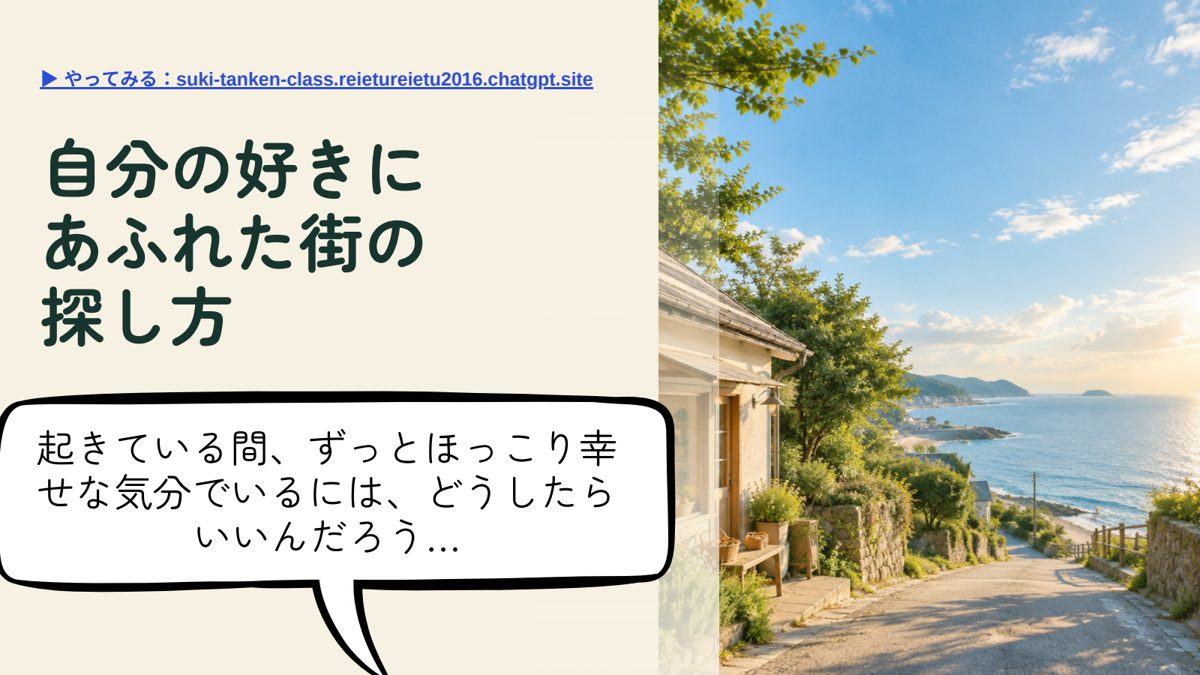
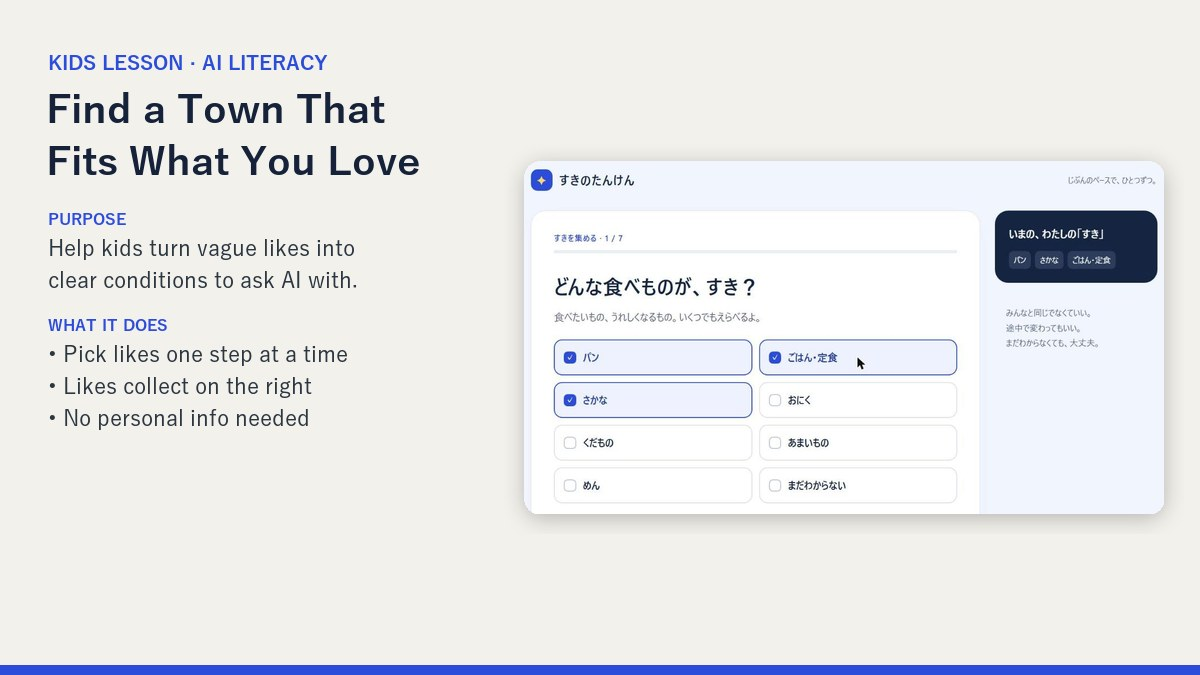
Use tool screenshots as thumbnails, reorder, clarify purposes

diff --git a/index.html b/index.html
@@ -75,11 +75,29 @@ footer a{color:var(--accent)}
     <h2>Selected work</h2>
 
     <article class="card">
-      <img src="salt.jpg" alt="Title slide: Why won't adults let me eat fast food three times a day? – Salt edition">
+      <img src="teform.jpg" alt="Lesson tool screen with a museum scene and speaking prompts">
       <div class="body">
-        <h3>Salt &amp; Health Lesson for Kids</h3>
-        <p class="tag">30-minute online lesson · mixed grades (elementary &amp; junior high)</p>
-        <p>Built around a question kids really ask: “Why won’t adults let me eat fast food three times a day?”</p>
+        <h3>Learn the Japanese Te-form for Travel</h3>
+        <p class="tag">20 minutes + practice · English-speaking beginners</p>
+        <p>The te-form is a key step for every Japanese learner. This web lesson, built with an AI coding assistant, teaches it through real travel requests (〜てください), and any instructor can teach it the same way on one shared screen.</p>
+        <ul>
+          <li>Aims for about 70% learner speaking time.</li>
+          <li>Clear prompts and repeated practice with travel situations.</li>
+          <li>Flexible stopping points to fit the class time.</li>
+          <li>Japanese checked for naturalness, beginner level and on-screen readability.</li>
+        </ul>
+        <div class="links">
+          <a class="btn primary" href="https://owl-travel-te-form-lesson.reietureietu2016.chatgpt.site" target="_blank" rel="noopener">Open the lesson</a>
+        </div>
+      </div>
+    </article>
+
+    <article class="card">
+      <img src="salt.jpg" alt="Salt tool screen showing a hamburger and Big Mac adding up to 4.1 g">
+      <div class="body">
+        <h3>How Much Salt Is in My Favorite Food?</h3>
+        <p class="tag">Healthy eating for kids · 30-minute online lesson · elementary &amp; junior high</p>
+        <p>Goal: help kids build eating habits that prevent high blood pressure, by learning how much salt they can have in a day and how much is in the foods they love. It starts from a question kids really ask: “Why won’t adults let me eat fast food three times a day?”</p>
         <ul>
           <li>Students pick their dream fast-food dinner and add up the salt in a web tool.</li>
           <li>They compare it with the daily target for their own age group.</li>
@@ -95,7 +113,7 @@ footer a{color:var(--accent)}
     </article>
 
     <article class="card">
-      <img src="town.jpg" alt="Title slide: How to find a town full of what you love">
+      <img src="town.jpg" alt="Likes tool screen with bread, fish and rice selected">
       <div class="body">
         <h3>Find a Town That Fits What You Love</h3>
         <p class="tag">Online lesson · mixed grades · AI literacy</p>
@@ -109,24 +127,6 @@ footer a{color:var(--accent)}
         <div class="links">
           <a class="btn primary" href="https://suki-tanken-class.reietureietu2016.chatgpt.site" target="_blank" rel="noopener">Try the tool</a>
           <a class="btn" href="town-lesson-slides.pdf" target="_blank" rel="noopener">Slides (PDF)</a>
-        </div>
-      </div>
-    </article>
-
-    <article class="card">
-      <img src="teform.jpg" alt="Cover: Travel te-form lesson with practice sentences">
-      <div class="body">
-        <h3>Interactive Japanese Lesson: Te-form for Travel</h3>
-        <p class="tag">20 minutes + practice · English-speaking beginners</p>
-        <p>A ready-to-use lesson that different instructors can teach the same way, on one shared screen.</p>
-        <ul>
-          <li>Aims for about 70% learner speaking time.</li>
-          <li>Clear prompts and repeated practice with travel situations.</li>
-          <li>Flexible stopping points to fit the class time.</li>
-          <li>Japanese checked for naturalness, beginner level and on-screen readability.</li>
-        </ul>
-        <div class="links">
-          <a class="btn primary" href="https://owl-travel-te-form-lesson.reietureietu2016.chatgpt.site" target="_blank" rel="noopener">Open the lesson</a>
         </div>
       </div>
     </article>
